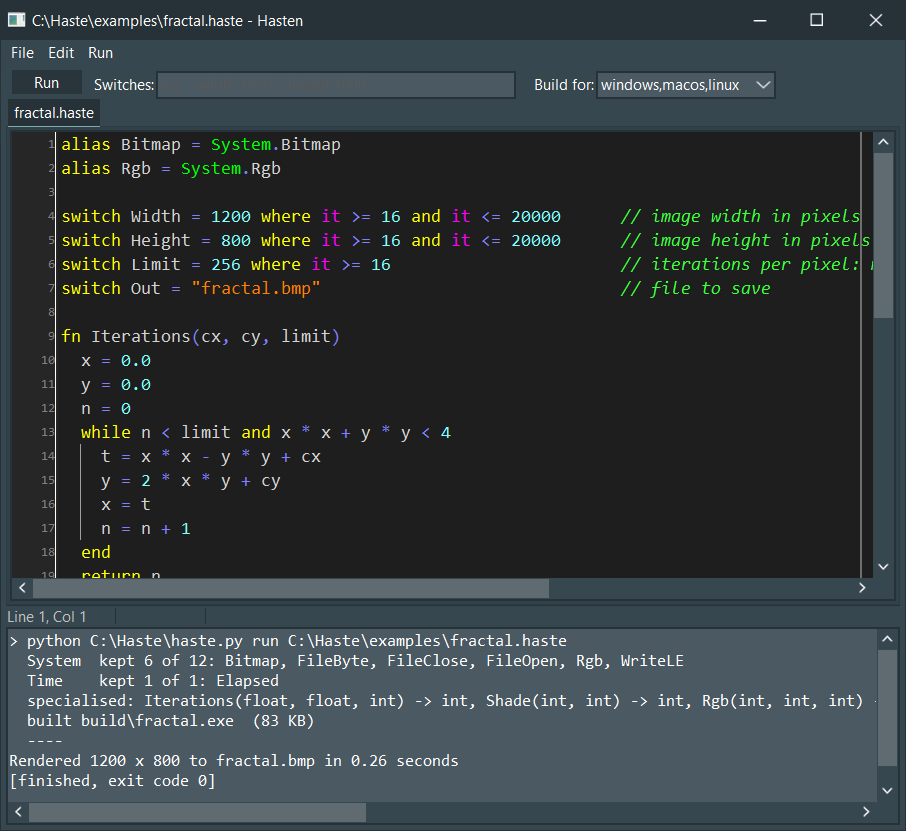
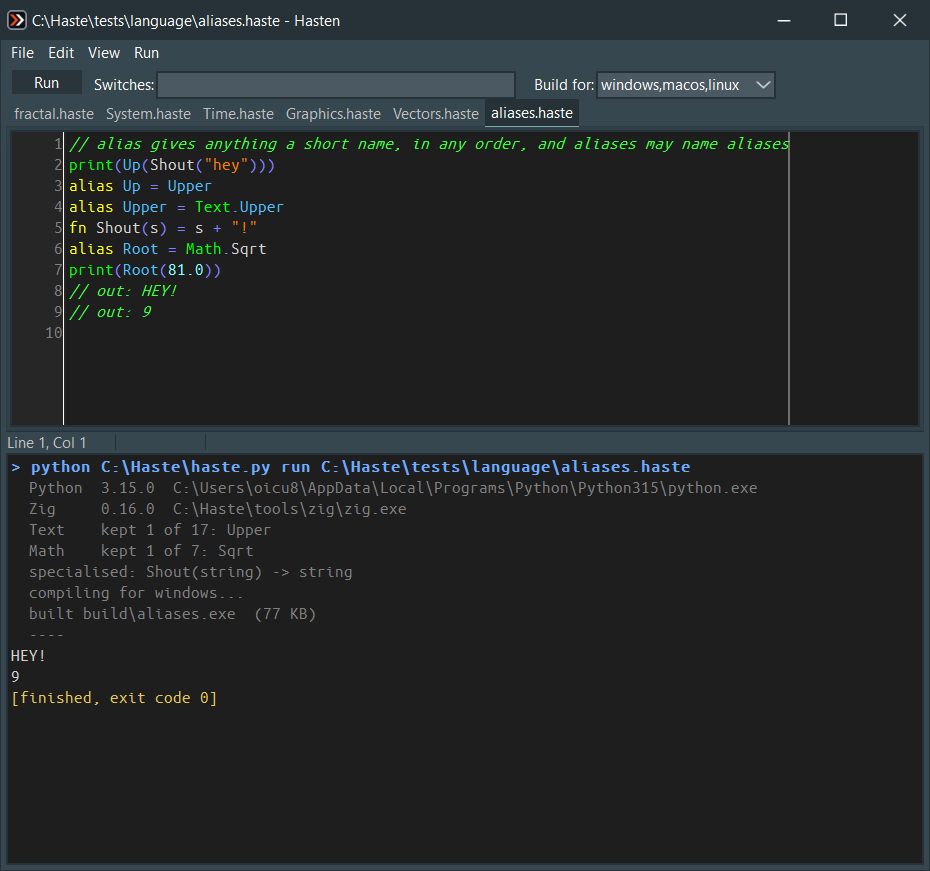
New Hasten screenshot: aliases.haste with alias colouring
Claude-Session: https://claude.ai/code/session_018gXEL5osSbZevospTzDXeC

diff --git a/ide/README.md b/ide/README.md
@@ -3,7 +3,9 @@
 A Delphi VCL editor for Haste: tabs, Haste syntax highlighting, Run (F9) and Build (Ctrl+F9) through
 `haste.py`, an output panel, and a jump to the line of each compiler error.
 
-![Hasten running fractal.haste](../assets/hasten-ide.png)
+![Hasten running aliases.haste](../assets/hasten-ide.png)
+
+Modules and module, type and class aliases are lime; function aliases are sky blue.
 
 ## Building
 
